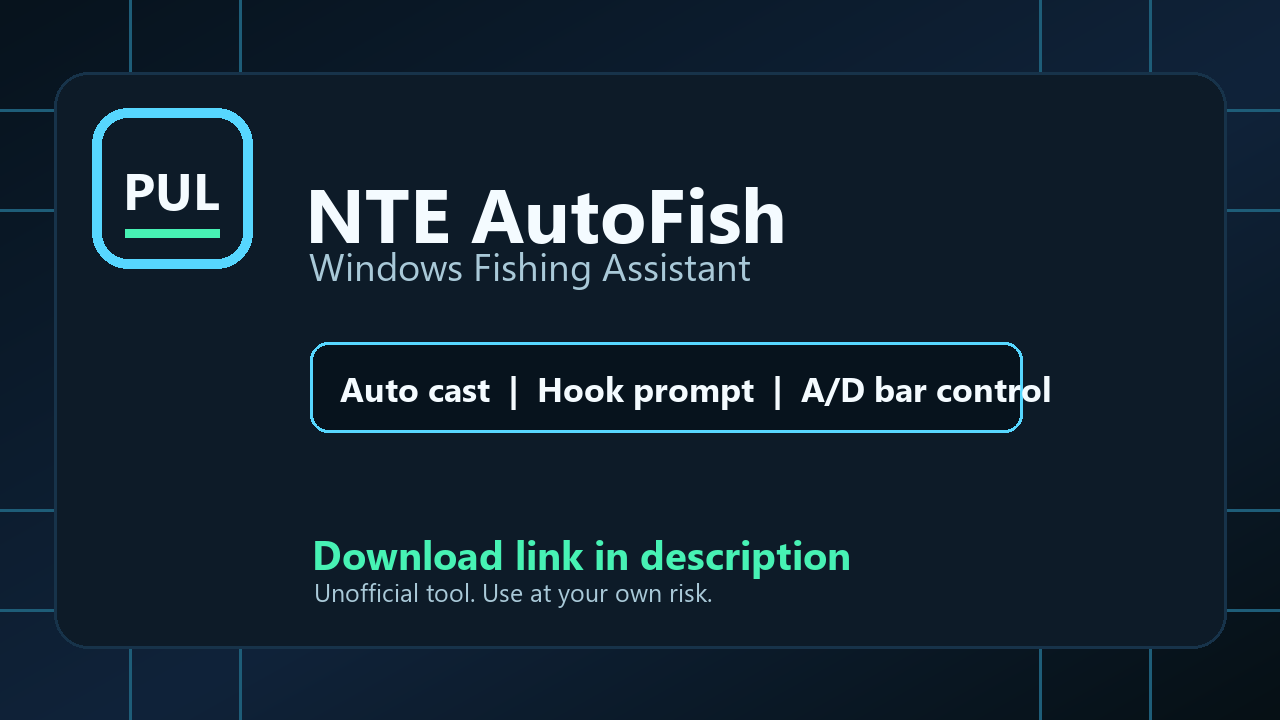
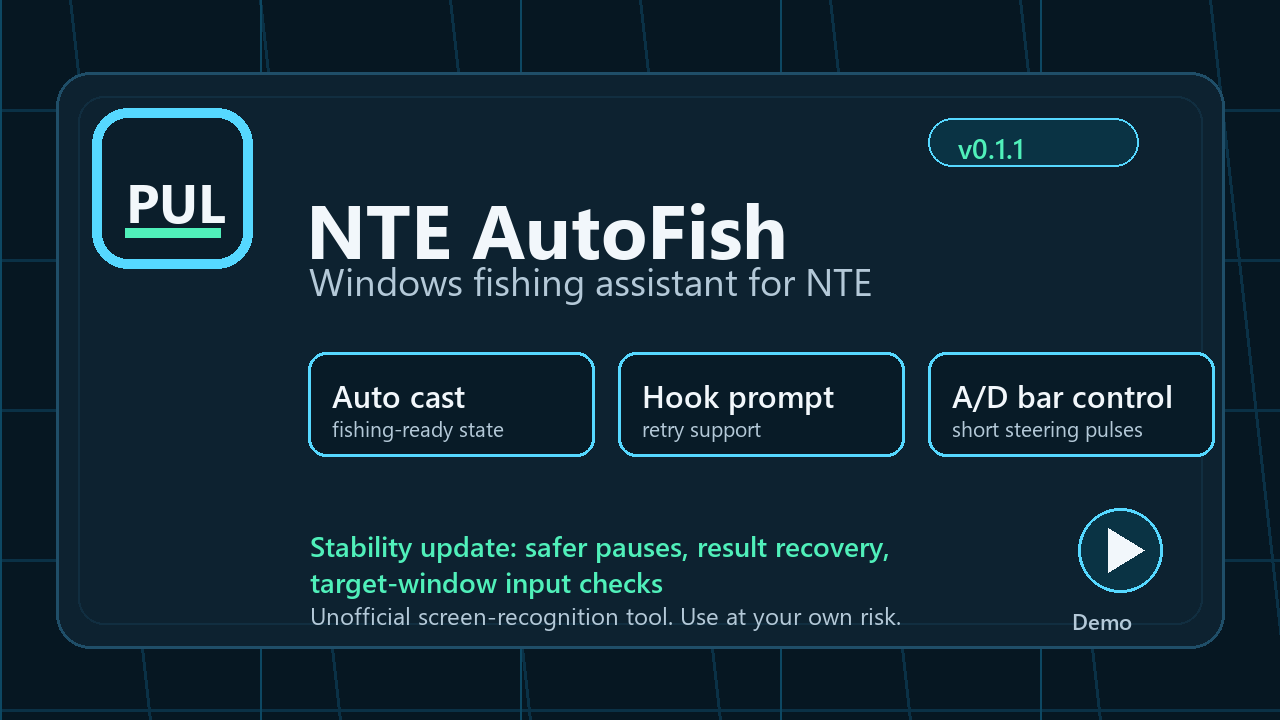
Refresh landing page for v0.1.1

diff --git a/README.md b/README.md
@@ -2,14 +2,27 @@
 
 Windows fishing assistant for NTE: Neverness to Everness.
 
-![NTE AutoFish thumbnail](assets/nte-autofish-thumbnail.png)
+[![Watch the NTE AutoFish demo](assets/nte-autofish-thumbnail.png)](https://www.youtube.com/watch?v=0h5MJfFbXqk)
 
-[Buy / Download on itch.io](https://ranats.itch.io/nte-autofish)
+[Buy / Download on LemonSqueezy](https://cilabworks.lemonsqueezy.com/checkout/buy/33197307-b8af-4bfd-b07a-3355cbcce4b6)
+| [itch.io marketplace page](https://ranats.itch.io/nte-autofish)
 | [Watch the demo](https://www.youtube.com/watch?v=0h5MJfFbXqk)
 | [X / Twitter](https://x.com/PixelUtilityLab/status/2052105671139803640)
 | [Japanese guide](README_JA.md)
 
 NTE AutoFish is a small Windows utility that uses screen recognition to assist repeated fishing actions in NTE. It watches the fishing UI and sends keyboard inputs for casting, hook prompts, the fishing bar minigame, and result-screen recovery.
+
+## Latest Update
+
+Current release: `v0.1.1`  
+Last updated: 2026-05-10
+
+- Improved result-screen detection and close/retry behavior after a catch.
+- Added safer pause behavior when the no-bait notice or fishing menu is detected.
+- Reduced false pauses from no-bait detection while the normal cast prompt is visible.
+- Improved foreground-window handling so inputs are skipped when the NTE window cannot be confirmed.
+- Added target-window capture support when configured.
+- Tuned cast/hook retry timing for briefly hidden prompts or missed inputs.
 
 ## What It Does
 
@@ -37,13 +50,15 @@ This is a Python-based Windows tool, not a standalone mobile app. The program is
 
 Compatibility can depend on resolution, UI scale, display mode, HDR settings, game updates, anti-cheat behavior, and account environment. Please watch the demo and check the recommended environment before purchasing.
 
-Primary purchase page:
+Primary checkout:
+
+`https://cilabworks.lemonsqueezy.com/checkout/buy/33197307-b8af-4bfd-b07a-3355cbcce4b6`
+
+Marketplace mirror:
 
 `https://ranats.itch.io/nte-autofish`
 
-Alternative checkout:
-
-`https://cilabworks.lemonsqueezy.com/checkout/buy/33197307-b8af-4bfd-b07a-3355cbcce4b6`
+LemonSqueezy is the primary direct checkout for this project. The itch.io page is kept as a marketplace presence and alternate download route when available. Payment, receipt, refund, and download-link issues should be handled through the store where you purchased.
 
 ## After Purchase
 
@@ -81,10 +96,12 @@ For setup issues, open a GitHub issue in this repository and include:
 - Whether NTE is running in borderless fullscreen
 - A short description of where the automation stops
 
+For payment, receipt, refund, or download-link issues, use the support/contact flow from the store where you purchased.
+
 Do not post private account information, purchase receipts, or UID screenshots publicly.
 
 ## Disclaimer
 
 This is an unofficial automation tool. It is not affiliated with Hotta Studio, Perfect World Games, YouTube, GitHub, itch.io, LemonSqueezy, X, or Neverness to Everness.
 
-Automating gameplay may violate game terms of service. Use at your own risk.
+Automating gameplay may violate game terms of service. Use at your own risk. Operation is not guaranteed after game updates, UI changes, anti-cheat changes, account restrictions, or unsupported display settings.

diff --git a/SUPPORT.md b/SUPPORT.md
@@ -16,3 +16,20 @@ Do not post private account information, purchase receipts, license emails, or U
 ## Refunds
 
 Payments and delivery may be handled through itch.io or LemonSqueezy depending on where you purchased. Use the purchase receipt or the store's support flow for payment-related requests.
+
+## 日本語
+
+セットアップや互換性の問題は、このリポジトリの GitHub Issue に投稿してください。
+
+以下を添えると確認しやすくなります。
+
+- Windows バージョン
+- Python バージョン
+- 解像度と表示スケール
+- NTE の表示モード
+- `dry_run.bat` が釣り待機状態を検出しているか
+- どの画面で自動化が止まるか
+
+公開Issueには、個人情報、購入レシート、ライセンスメール、UID が映ったスクリーンショットを投稿しないでください。
+
+決済、配布、返金に関する問い合わせは、購入したストアのレシートまたはサポート導線を使用してください。